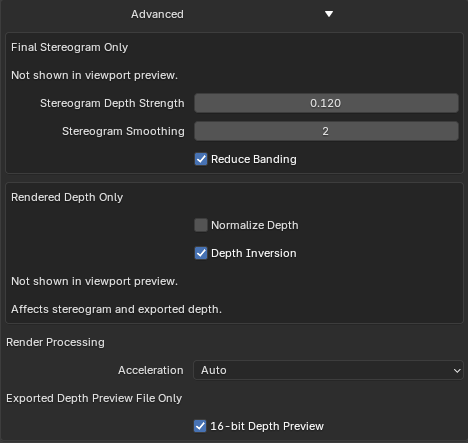
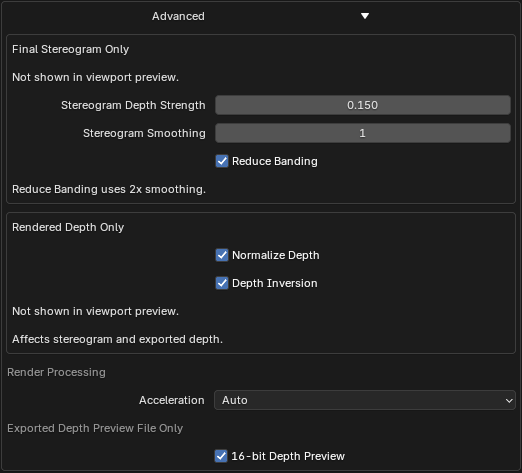
Update Magic Eye Maker documentation

diff --git a/docs/magic-eye-maker/user-guide.md b/docs/magic-eye-maker/user-guide.md
@@ -12,11 +12,13 @@ Magic Eye Maker uses the active camera and scene geometry as depth for an autost
 
 The panel is in **3D Viewport → Sidebar → Magic Eye**. Installation may take longer than a smaller add-on because the required components are included in the package.
 
-[![Magic Eye Maker panel with Preview, Generate, output, and depth controls](../assets/images/magic-eye-maker/output-depth-controls.png){ .docs-shot .docs-shot--compact loading=lazy width=486 height=743 }](../assets/images/magic-eye-maker/output-depth-controls.png)
+[![Preview and Generate buttons with the Ready status](../assets/images/magic-eye-maker/preview-generate.png){ .docs-shot .docs-shot--compact loading=lazy width=522 height=59 }](../assets/images/magic-eye-maker/preview-generate.png)
 
 ## Output and frames
 
 Choose a dedicated **Output Folder** for each project. A later run will overwrite existing files with the same name.
+
+Use an absolute Output Folder path. Blender's `//` relative-path prefix is not supported.
 
 **Remove Temp Files** removes the internal `_TempDepth` folder after a run. **Open Folder When Finished** opens the output folder after a successful preview or completed generation run.
 
@@ -28,7 +30,7 @@ For animation depth:
 - **Static Depth** renders depth once and reuses it. Use it when only the visible pattern changes.
 - **Static Depth Frame** selects the source frame. `-1` uses the first output frame.
 
-Set resolution and final image format in Blender's **Output Properties**. Animation output is an image sequence. PNG, TIFF, Targa, BMP, and lossless WebP are supported for final stereograms; other selections use PNG.
+Set resolution and final image format in Blender's **Output Properties**. Animation output is an image sequence. PNG, TIFF, Targa, BMP, and lossless WebP are supported for final stereograms. Other selections use PNG because lossy compression can damage the repeating pixels needed by the stereogram.
 
 ## Depth Map / Viewport
 
@@ -37,6 +39,8 @@ Set resolution and final image format in Blender's **Output Properties**. Animat
 After framing the subject with the active camera, click **Fit Mist Range**. It estimates suitable **Mist Start** and **Mist Range Length** values from render-enabled object bounds inside the camera view.
 
 Start with **Mist Falloff: Linear** and **Depth Gamma: 1**. Refit after moving the camera or important objects. The result is a starting point; occluded geometry, transparency, render-only changes, or animation may require manual adjustment.
+
+Fit Mist Range uses the current frame and does not automatically fit every frame in an animation.
 
 ### Depth controls
 
@@ -51,7 +55,19 @@ Start with **Mist Falloff: Linear** and **Depth Gamma: 1**. Refit after moving t
 
 Fit the Mist range before changing Gamma. Gamma cannot restore detail already clipped or compressed by an unsuitable range.
 
-**Preview Mist** temporarily shows Mist, Gamma, and smoothing in the viewport. It does not show **Normalize Depth**, **Depth Inversion**, **Stereogram Depth Strength**, **Stereogram Smoothing**, or **Reduce Banding**. These controls are found under **Advanced** and affect rendered depth or the final stereogram.
+### Preview Mist and Normal View
+
+**Preview Mist** temporarily shows Mist, Gamma, and smoothing in the viewport. Click **Normal View** to return to the usual display.
+
+[![Depth Map and Viewport controls with Preview Mist, Normal View, Fit Mist Range, falloff, gamma, and smoothing](../assets/images/magic-eye-maker/depth-controls.png){ .docs-shot .docs-shot--compact loading=lazy width=522 height=339 }](../assets/images/magic-eye-maker/depth-controls.png)
+
+Ordinary rendering, Undo/Redo, loading another file, saving, and disabling the add-on also close the temporary preview.
+
+When the scene uses Workbench, Magic Eye Maker temporarily uses Eevee for depth capture because Workbench does not provide a Mist pass. It restores Workbench afterwards.
+
+Magic Eye Maker isolates its temporary viewport preview and depth capture from scene compositor effects, then restores the original compositor state. File Output nodes do not run during Magic Eye depth capture; ordinary Blender renders continue to use the scene compositor normally.
+
+The viewport preview does not show **Normalize Depth**, **Depth Inversion**, **Stereogram Depth Strength**, **Stereogram Smoothing**, or **Reduce Banding**. These controls are found under **Advanced** and affect rendered depth or the final stereogram.
 
 Use **Preview** to render a processed-depth image when judging the final depth mapping.
 
@@ -142,6 +158,8 @@ For dependable playback, use a numbered image sequence with no missing frames. *
 
 ## Pattern animation
 
+[![Output frame range and Pattern Animation controls with Loop Output Range enabled](../assets/images/magic-eye-maker/output-loop-controls.png){ .docs-shot .docs-shot--compact loading=lazy width=522 height=633 }](../assets/images/magic-eye-maker/output-loop-controls.png)
+
 | Mode | Behavior |
 | --- | --- |
 | **Static** | Keeps the pattern placement fixed. |
@@ -158,7 +176,7 @@ Loop Output Range affects pattern movement only. Animated geometry, camera movem
 
 ## Advanced settings
 
-[![Advanced controls grouped into final stereogram, rendered depth, and processing settings](../assets/images/magic-eye-maker/advanced-controls.png){ .docs-shot .docs-shot--compact loading=lazy width=468 height=443 }](../assets/images/magic-eye-maker/advanced-controls.png)
+[![Advanced controls for final stereogram, rendered depth, processing, and depth preview](../assets/images/magic-eye-maker/advanced-controls.png){ .docs-shot .docs-shot--compact loading=lazy width=522 height=473 }](../assets/images/magic-eye-maker/advanced-controls.png)
 
 ### Final Stereogram Only
 

diff --git a/docs/magic-eye-maker/faq.md b/docs/magic-eye-maker/faq.md
@@ -1,5 +1,19 @@
 # Magic Eye Maker — FAQ
 
+## Rendering and Blender integration
+
+### Why does a Workbench scene switch to Eevee during depth capture?
+
+Workbench does not provide the Mist pass required for depth capture. Magic Eye Maker temporarily uses Eevee for Preview and Generate, then restores Workbench.
+
+### Why don’t compositor effects or File Output nodes run during Magic Eye depth capture?
+
+Magic Eye Maker isolates its temporary viewport preview and depth capture from scene compositor effects and File Output nodes, then restores the original state. Ordinary Blender renders continue to use those effects normally.
+
+### Why is a Blender render blank or different from the camera view?
+
+Blender's Video Sequencer can replace the scene render. Check the sequencer strips if ordinary Blender renders are also unexpected. Magic Eye Maker temporarily disables sequencer output during its own depth render and restores it afterwards.
+
 ## Depth and viewing
 
 ### The depth preview is flat black, white, or nearly featureless. What should I do?
@@ -55,6 +69,10 @@ Check the selected mode, speed or movement amount, output range, and Loop Count.
 Use a whole-number Loop Count and confirm the output Start, End, and Step values. Loop Output Range controls pattern movement only; scene animation and animated image sources must be looped separately.
 
 ## Output and performance
+
+### Why does the final image look rough or grainy?
+
+Compare the Pattern Preview and processed depth first. Noise and the Noisy preset deliberately add texture. For rough displacement, reduce Stereogram Depth Strength, try Stereogram Smoothing 2 or 3, and smooth abrupt depth edges only as needed.
 
 ### Why did Generate not create new preview images?
 
